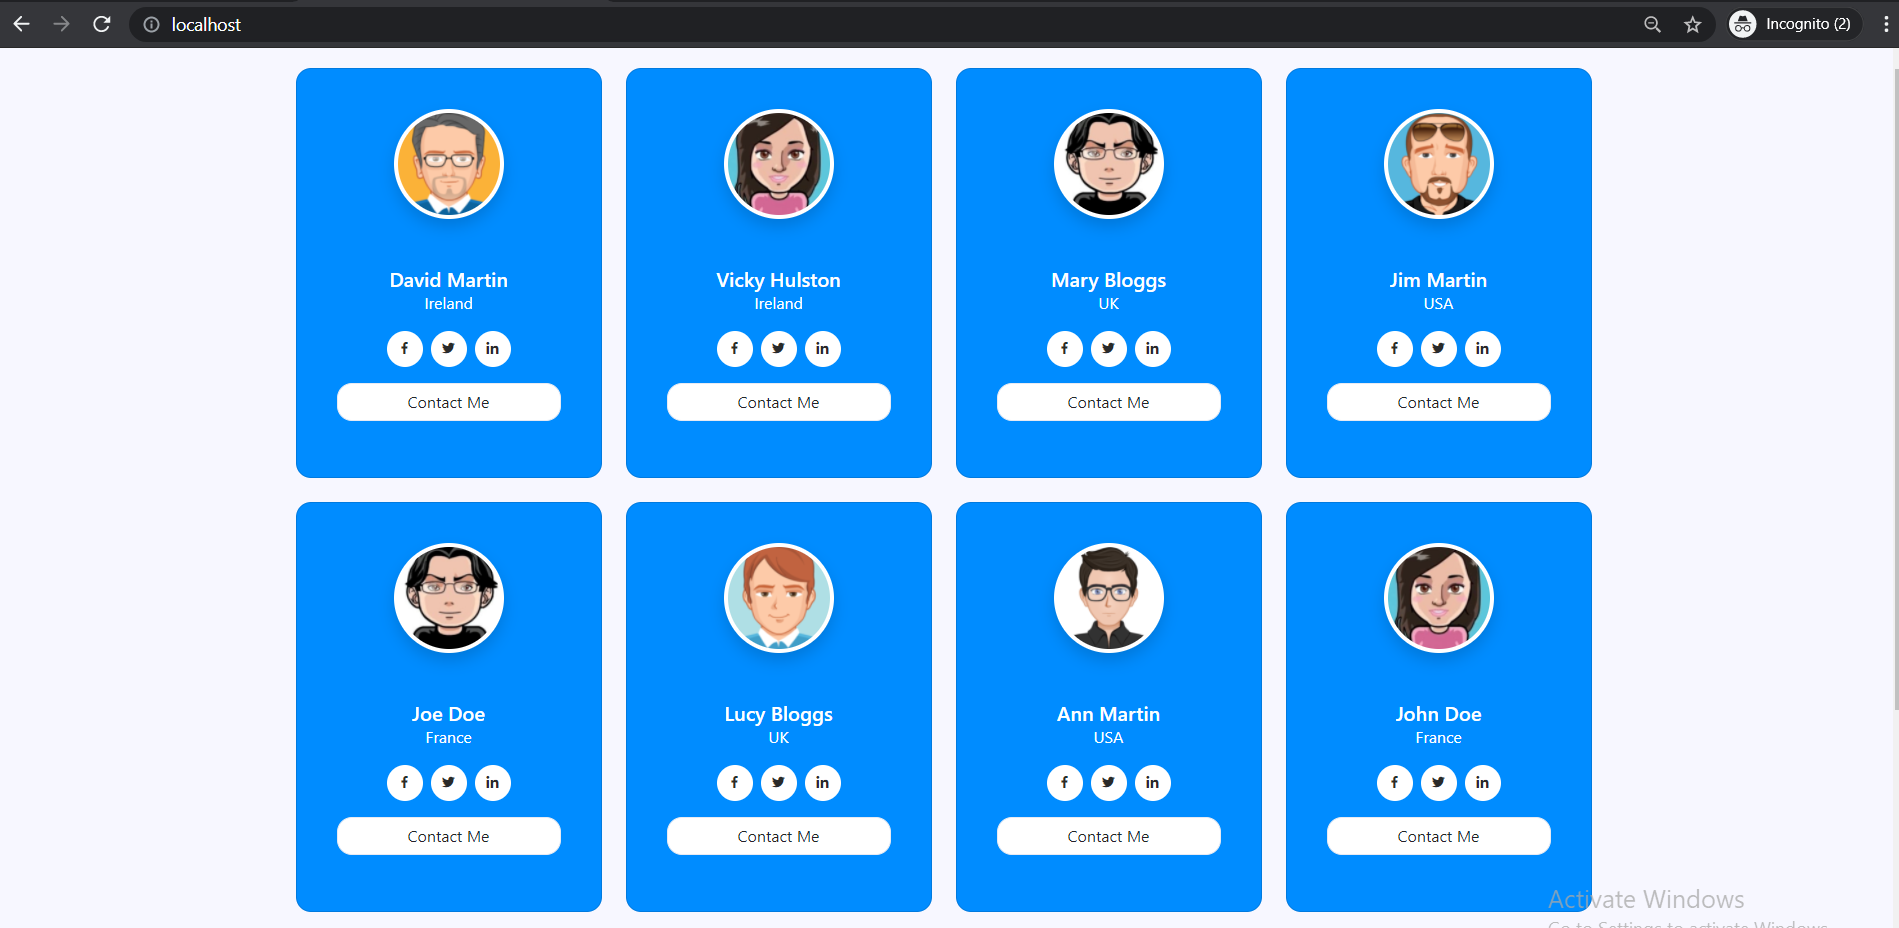
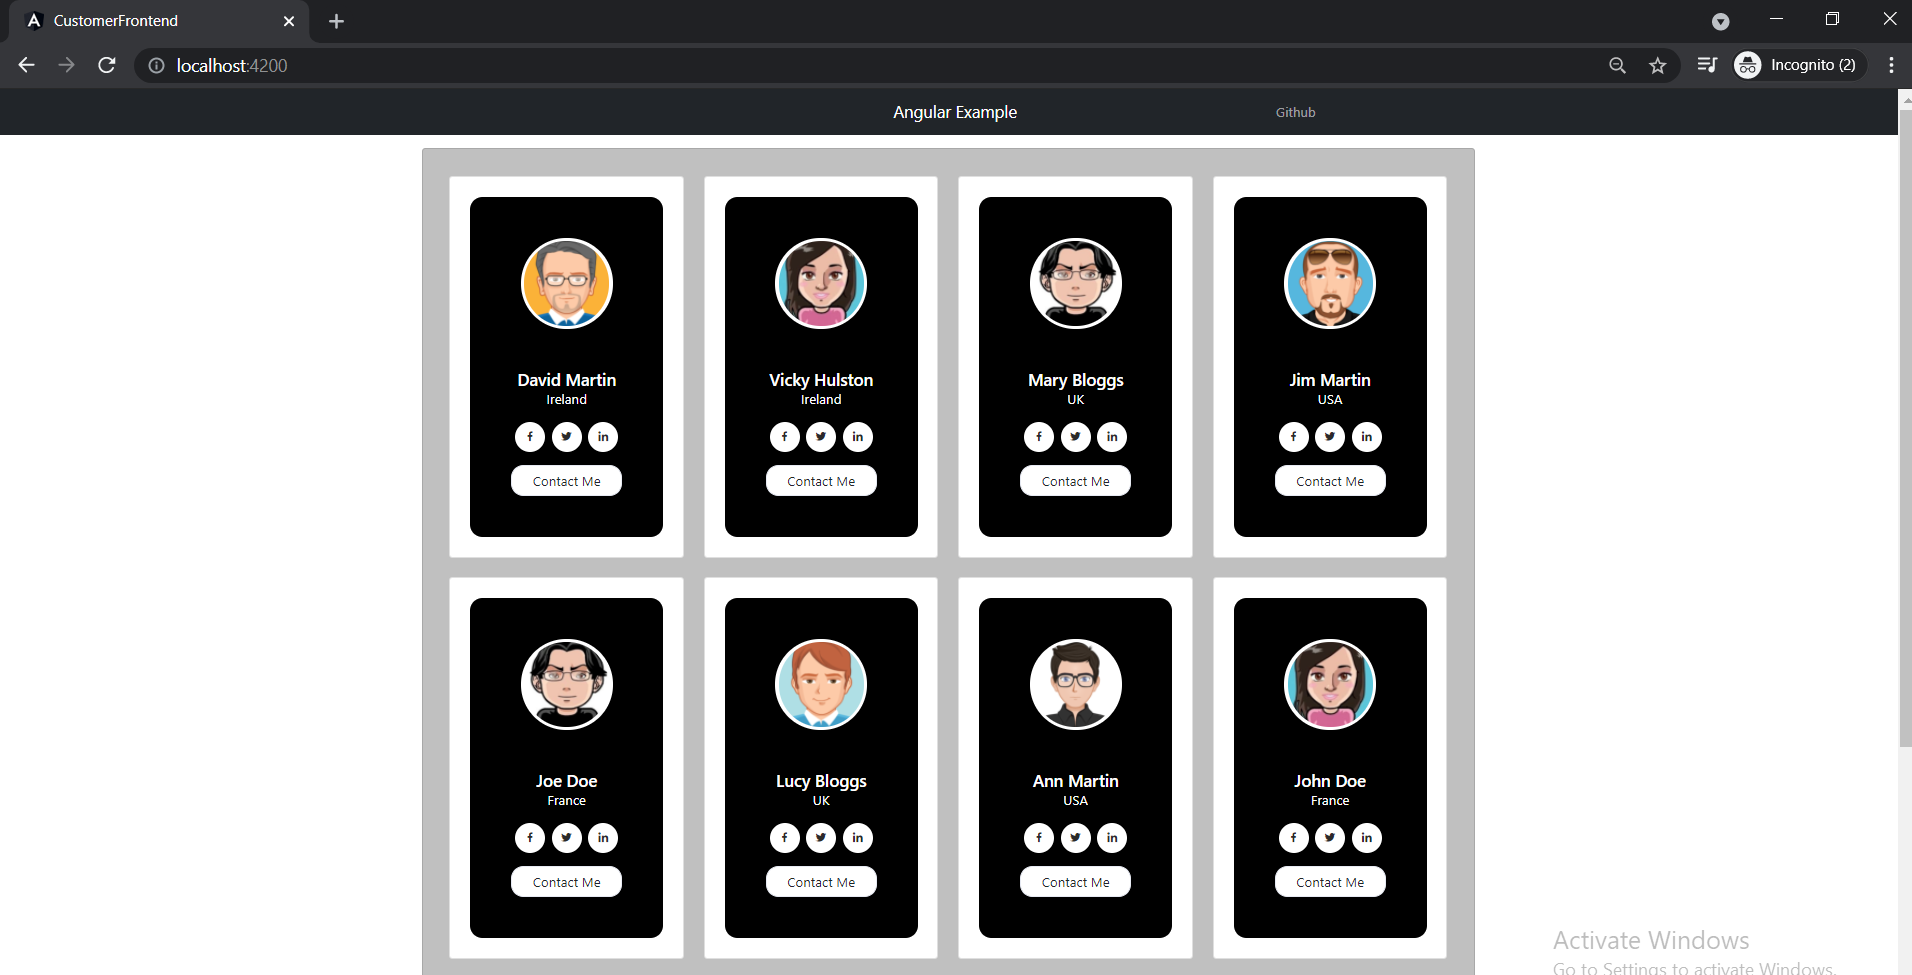
styling landing page

diff --git a/customer-frontend/src/app/app.component.html b/customer-frontend/src/app/app.component.html
@@ -1,25 +1,51 @@
 <link rel="stylesheet" href="https://cdn.jsdelivr.net/npm/boxicons@2.0.7/css/boxicons.min.css">
 
+<nav class="navbar navbar-dark bg-dark navbar-expand-md bg-faded justify-content-center">
+    <a href="/" class="navbar-brand d-flex w-50 justify-content-left"></a>
+    <button class="navbar-toggler" type="button" data-toggle="collapse" data-target="#collapsingNavbar3">
+        <span class="navbar-toggler-icon"></span>
+    </button>
+    <div class="navbar-collapse collapse w-100" id="collapsingNavbar3">
+        <ul class="navbar-nav w-100 justify-content-center">
+            <li class="nav-item">
+                <a class="navbar-brand mx-2 d-none d-md-inline" href="#">Angular Example</a>
+            </li>
+        </ul>
+        <ul class="nav navbar-nav ml-auto w-100 justify-content-right">
+            <li class="nav-item">
+                <a class="nav-link" href="#">Github</a>
+            </li>
+        </ul>
+    </div>
+</nav>
+
 <div class="container">
-    <div class="row row-cols-1 row-cols-lg-2 row-cols-xl-4">
-        <div *ngFor="let customer of customers" class="col">
-            <div class="card radius-15 bg-primary">
-                <div class="card-body text-center">
-                    <div class="p-4 radius-15">
-                        <img src={{customer.image}} width="110" height="110" class="rounded-circle shadow p-1 bg-white" alt="">
-                        <h5 class="mb-0 mt-5 text-white">{{customer.firstName}} {{customer.lastName}}</h5>
-                        <p class="mb-3 text-white">{{customer.country}}</p>
-                        
-                        <div class="list-inline contacts-social mt-3 mb-3"> <a href="javascript:;" class="list-inline-item border-0"><i class="bx bxl-facebook"></i></a>
-                            <a href="javascript:;" class="list-inline-item border-0"><i class="bx bxl-twitter"></i></a>
-                            <a href="javascript:;" class="list-inline-item border-0"><i class="bx bxl-linkedin"></i></a>
-                        </div>
-                        <div class="d-grid"> <a href="#" class="btn btn-white radius-15">Contact Me</a>
-                        </div>
+    <div class="card main-card">
+        <div class="row row-cols-1 row-cols-lg-2 row-cols-xl-4">
+            <div *ngFor="let customer of customers" class="col">
+                <div class="card profile-card">
+                    <div class="card radius-15 bg-primary">
+                        <div class="card-body text-center">
+                            <div class="p-4 radius-15">
+                                <img src={{customer.image}} width="110" height="110"
+                                    class="rounded-circle shadow p-1 bg-white" alt="">
+                                <h5 class="mb-0 mt-5 text-white">{{customer.firstName}} {{customer.lastName}}</h5>
+                                <p class="mb-3 text-white">{{customer.country}}</p>
+                                <div class="list-inline contacts-social mt-3 mb-3"> <a href="javascript:;"
+                                        class="list-inline-item border-0"><i class="bx bxl-facebook"></i></a>
+                                    <a href="javascript:;" class="list-inline-item border-0"><i
+                                            class="bx bxl-twitter"></i></a>
+                                    <a href="javascript:;" class="list-inline-item border-0"><i
+                                            class="bx bxl-linkedin"></i></a>
+                                </div>
+                                <div class="d-grid"> <a href="#" class="btn btn-white radius-15">Contact Me</a>
+                                </div>
+                            </div>
+                        </div>                        
                     </div>                    
                 </div>
+                <span>&nbsp;</span>
             </div>
-            <span>&nbsp;</span>
         </div>
     </div>
 </div>

diff --git a/customer-frontend/src/styles.css b/customer-frontend/src/styles.css
@@ -1,8 +1,6 @@
-
-
 body{
-    background-color: #f7f7ff;
-    margin-top:20px;
+    /* background-color: white;     */
+    /* background-color: silver; */
 }
 .btn-white {
     background-color: #fff;
@@ -26,7 +24,7 @@ body{
     background-color: #0dcaf0!important;
 }
 .bg-primary {
-    background-color: #008cff!important;
+    background-color: black!important;
 }
 .bg-danger {
     background-color: #fd3550!important;
@@ -34,7 +32,26 @@ body{
 .bg-warning {
     background-color: #ffc107!important;
 }
-
+@media (min-width: 768px) {
+    .navbar-brand.abs
+        {
+            position: absolute;
+            width: 100%;
+            left: 0;
+            text-align: center;
+        }
+    }
 .card {
-    padding-bottom: 1em;
+    padding: .5em;
+    margin: 1em;
+}
+
+.profile-card {
+    padding: .5em;
+    margin: 0em;
+}
+
+.main-card {
+    background-color: silver;
+    padding: 2em;
 }

diff --git a/customer-frontend/src/environments/environment.prod.ts b/customer-frontend/src/environments/environment.prod.ts
@@ -1,5 +1,5 @@
 export const environment = {
   production: true,
-  bankendApiUrl: "http://127.0.0.1:8081",
+  bankendApiUrl: "http://127.0.0.1:8080",
   customersPath: "/customers"
 };
